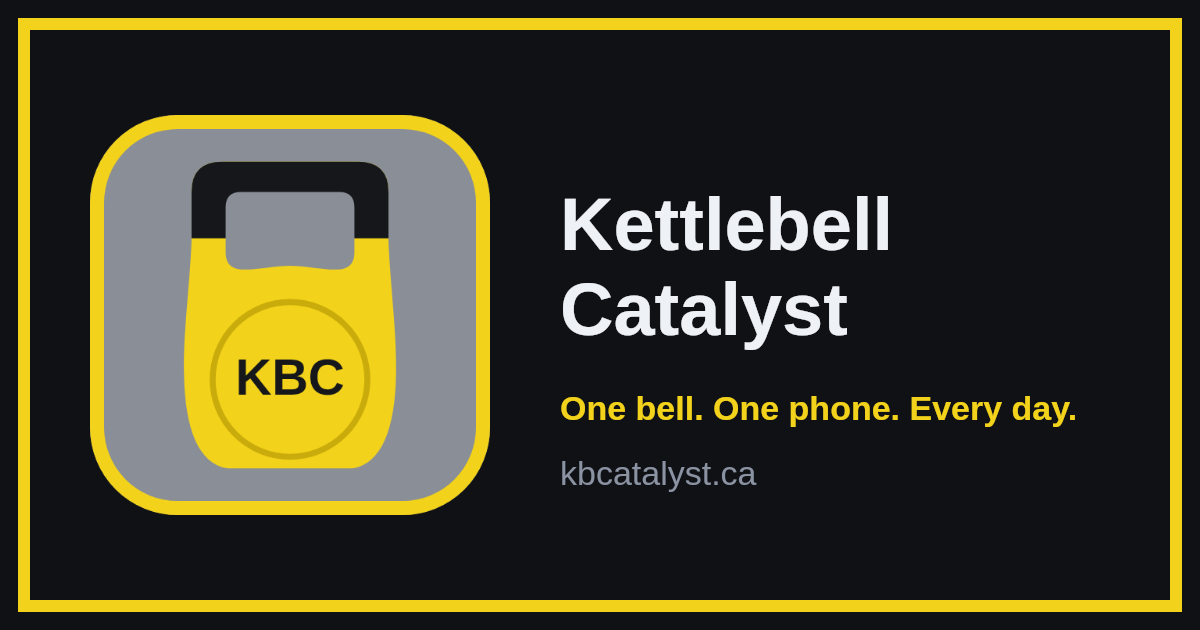
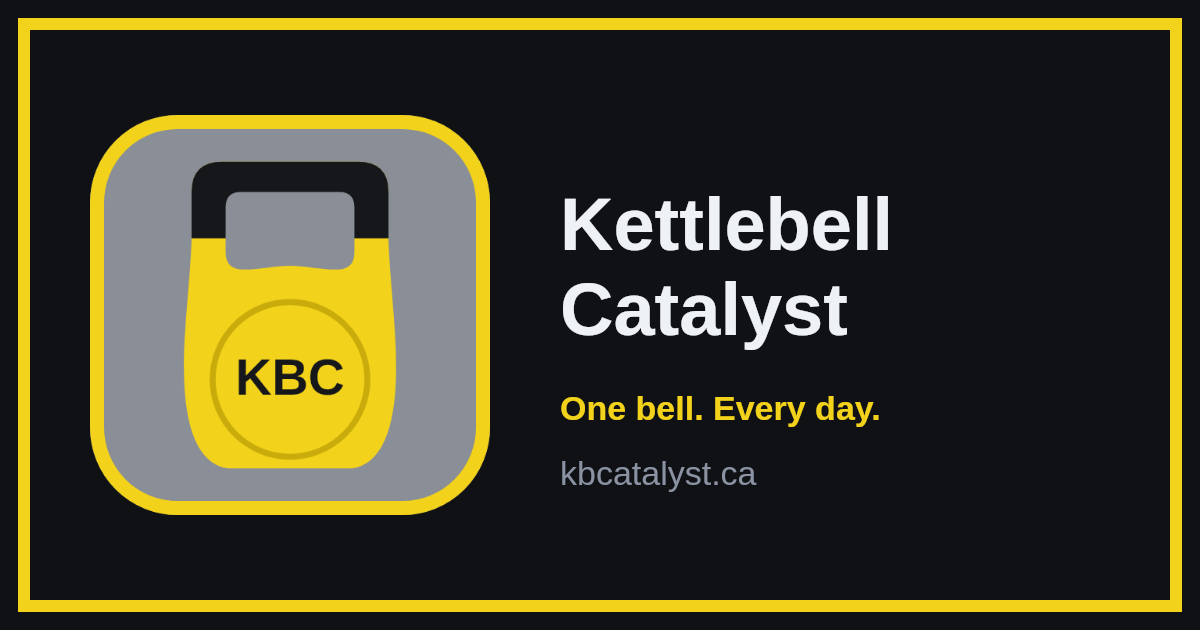
Add files via upload

Changed region(s): [[0.5858, 0.6333, 0.8942, 0.6937]]

diff --git a/index.html b/index.html
@@ -4,7 +4,7 @@
 <meta charset="utf-8">
 <meta name="viewport" content="width=device-width, initial-scale=1, viewport-fit=cover">
 <title>Kettlebell Catalyst</title>
-<meta name="description" content="One bell. One phone. Every day. A free kettlebell workout timer that plans your session and talks you through every set.">
+<meta name="description" content="One bell. Every day. A free kettlebell workout timer that plans your session and talks you through every set.">
 <meta name="theme-color" content="#0f1115">
 <link rel="manifest" href="manifest.json">
 <link rel="icon" type="image/png" sizes="32x32" href="favicon-32.png">
@@ -16,7 +16,7 @@
 <meta property="og:type" content="website">
 <meta property="og:site_name" content="Kettlebell Catalyst">
 <meta property="og:title" content="Kettlebell Catalyst">
-<meta property="og:description" content="One bell. One phone. Every day. A free kettlebell workout timer.">
+<meta property="og:description" content="One bell. Every day. A free kettlebell workout timer.">
 <meta property="og:url" content="https://kbcatalyst.ca/">
 <meta property="og:image" content="https://kbcatalyst.ca/og-image.png">
 <meta property="og:image:width" content="1200">
@@ -34,7 +34,7 @@
   .wrap{max-width:640px;margin:0 auto}
   header{display:flex;justify-content:space-between;align-items:center;gap:8px;margin-bottom:10px}
   h1{font-size:20px;margin:0;letter-spacing:.3px}
-  .sub{color:var(--muted);font-size:13px;margin-top:2px;font-variant-numeric:tabular-nums}
+  .sub{color:var(--accent);font-size:17px;font-weight:700;margin-top:3px;font-variant-numeric:tabular-nums;white-space:nowrap}
   .icons{display:flex;gap:6px;flex:none}
   .icons button{width:42px;height:42px;padding:0;display:grid;place-items:center;border-radius:12px;color:var(--text)}
   .icons svg{width:22px;height:22px;fill:none;stroke:currentColor;stroke-width:1.8;stroke-linecap:round;stroke-linejoin:round}
@@ -52,7 +52,18 @@
   .btnrow{display:flex;gap:8px;flex-wrap:wrap;margin:8px 0}
   .ok{color:var(--accent2);font-size:13px}
   .meta{color:var(--muted);font-size:13px;font-variant-numeric:tabular-nums}
-  .card{background:var(--panel);border:1px solid var(--line);border-radius:16px;padding:18px}
+  .card{background:var(--panel);border:1px solid var(--line);border-radius:16px;padding:14px 16px}
+  .quote{background:#000;border-radius:14px;padding:14px 16px;min-height:96px;margin:0 0 12px;display:flex;flex-direction:column;justify-content:center}
+  .quote .ql{font-size:11px;letter-spacing:1.2px;text-transform:uppercase;color:var(--muted);margin-bottom:6px}
+  .quote .qt{font-size:17px;line-height:1.4;color:var(--text)}
+  .quote.sponsor .ql{color:var(--accent)}
+  .quote.house{cursor:pointer}
+  .houserow{display:flex;align-items:center;gap:14px}
+  .houseicon{width:56px;height:56px;flex:none}
+  .houserow b{display:block;font-size:18px;color:var(--text)}
+  .houserow span{display:block;font-size:15px;color:var(--accent);font-weight:700;margin-top:2px}
+  .quote a{color:var(--accent)}
+  .quote .qby{display:block;font-size:14px;color:var(--muted);margin-top:6px}
   .now{text-align:center}
   .slot{color:var(--text);font-size:26px;font-weight:800;letter-spacing:.5px;font-variant-numeric:tabular-nums}
   .slot .of{color:var(--muted);font-weight:600;font-size:18px}
@@ -60,15 +71,16 @@
   .slot .rest{display:block;color:var(--muted);font-size:13px;font-weight:500;margin-top:2px}
   .tag{display:inline-block;font-size:11px;padding:2px 8px;border-radius:99px;border:1px solid var(--line);color:var(--muted);margin-left:6px;vertical-align:middle;text-transform:none;letter-spacing:0}
   .ex{font-size:clamp(26px,7vw,40px);font-weight:700;line-height:1.15;margin:10px 0 6px}
-  .cue{color:var(--muted);font-size:15px;min-height:20px}
-  .clock{font-size:clamp(64px,22vw,120px);font-weight:800;font-variant-numeric:tabular-nums;line-height:1;margin:14px 0 6px;color:var(--accent)}
+  .cue{color:var(--muted);font-size:15px;min-height:20px;display:-webkit-box;-webkit-line-clamp:2;-webkit-box-orient:vertical;overflow:hidden}
+  .clock{font-size:clamp(64px,22vw,120px);font-weight:800;font-variant-numeric:tabular-nums;line-height:1;margin:8px 0 4px;color:var(--accent)}
   .clock.low{color:var(--warn)}
   .bar{height:6px;background:var(--line);border-radius:99px;overflow:hidden;margin-top:10px}
   .bar>i{display:block;height:100%;width:0;background:var(--accent2);transition:width .2s linear}
-  .next{margin-top:14px;font-size:15px;color:var(--muted)}
+  .next{margin-top:10px;font-size:15px;color:var(--muted)}
   .next b{color:var(--text)}
   .next .dose{color:var(--accent2);font-weight:600}
-  .controls{display:grid;grid-template-columns:1fr 2fr 1fr;gap:10px;margin:14px 0}
+  .controls{display:grid;grid-template-columns:1fr 2fr 1fr;gap:10px;margin:8px 0 10px}
+  .controls button{padding:10px 8px}
   button{font:inherit;color:var(--text);background:var(--panel);border:1px solid var(--line);border-radius:12px;padding:14px 10px;font-size:16px;cursor:pointer}
   button:active{transform:scale(.98)}
   button.primary{background:var(--accent);border-color:var(--accent);color:#1a1205;font-weight:700}
@@ -111,7 +123,8 @@
   details[open] summary::before{content:"▾ ";}
   .grp{font-size:12px;color:var(--muted);text-transform:uppercase;letter-spacing:1px;margin:14px 0 6px}
   .lib li.off .nm{color:var(--muted);text-decoration:line-through}
-  .lib input[type=checkbox]{width:20px;height:20px;flex:none;accent-color:var(--accent2)}
+  .lib input[type=checkbox]{width:26px;height:26px;flex:none;accent-color:var(--accent2);margin:0 2px}
+  .lib li .nm{cursor:pointer}
   .step{display:flex;align-items:center;gap:4px;flex:none}
   .step button{padding:4px 10px;font-size:15px;border-radius:8px}
   .step span{min-width:26px;text-align:center;font-variant-numeric:tabular-nums;color:var(--muted);font-size:13px}
@@ -127,7 +140,7 @@
   <header>
     <div>
       <h1 id="title">Kettlebell Catalyst</h1>
-      <div class="sub"><span id="sub">45 min · Full day</span> · <span id="meta">0:00 / 45:00</span></div>
+      <div class="sub"><span id="meta">0:00 / 45:00</span> · <span id="sub">Full day</span></div>
     </div>
     <div class="icons">
       <button id="icoHealth" aria-label="Health disclaimer" title="Health disclaimer"><svg viewBox="0 0 24 24"><path d="M9 3.5h6v5.5h5.5v6H15v5.5H9V15H3.5V9H9z"/></svg></button>
@@ -158,6 +171,7 @@
     <button id="startBtn" class="primary">Start</button>
     <button id="skipBtn" aria-label="Next">Skip ▶</button>
   </div>
+  <div class="quote" id="quoteBox" aria-live="polite"><div class="ql" id="qLabel">Ready when you are</div><div class="qt" id="qText">Pick up your bell. Press Start when you're ready.</div></div>
 
   <div class="row">
     <label>Length
@@ -241,9 +255,9 @@
   // mode: warmup | both | full | easy ; freq = times per session ; sided = L/R pair
   const D=(id,name,cue,tag,mode,sided,freq)=>({id,name,cue,tag,mode,sided:!!sided,freq:freq||1});
   const DEFAULTS=[
-    D("halo","Halos","Slow circles around the head, both directions · 5 each way","warm-up","warmup"),
-    D("atw","Around-the-World Passes","Pass the bell around your waist, switching direction halfway · 10 passes","warm-up","warmup"),
-    D("pry","Prying Goblet Squat","Sit deep, push knees out with elbows · 5 slow reps","warm-up","warmup"),
+    D("halo","Halos","Slow circles, both ways · 5 each way","warm-up","warmup"),
+    D("atw","Around-the-World Passes","Switch halfway · 10 passes","warm-up","warmup"),
+    D("pry","Prying Goblet Squat","Sit deep, elbows push knees out · 5 slow reps","warm-up","warmup"),
     D("kbdl","Kettlebell Deadlift","Hinge, flat back, stand tall · 8 reps","warm-up","warmup"),
     D("bridge","Glute Bridge","Bell on hips, squeeze at the top · 10 reps","warm-up","warmup"),
 
@@ -280,11 +294,11 @@
     D("thruster","Goblet Thruster","Squat and press in one move · 6 reps","squat","full"),
 
     D("smarch","Suitcase March","Bell at your side, slow high knees · 30 s","carry","easy",1),
-    D("armbar","Arm Bar","On your back, bell pressed up, roll gently to the side · 30 s","mobility","easy",1),
+    D("armbar","Arm Bar","Bell pressed up, roll to the side · 30 s","mobility","easy",1),
     D("splank","Side Plank","On elbow, hips high · 20–30 s","core","easy",1),
     D("birddog","Bird Dog","Opposite arm and leg, slow · 6 reps","core","easy"),
     D("hipflex","Half-Kneeling Hip Flexor Stretch","Tuck the pelvis, breathe · 30 s","mobility","easy",1),
-    D("cossack","Cossack Squat (bodyweight)","Shift side to side, only as deep as is comfortable · 4 reps","mobility","easy"),
+    D("cossack","Cossack Squat (bodyweight)","Side to side, comfortable depth · 4 reps","mobility","easy"),
     D("bwsplit","Bodyweight Split Squat","Slow and controlled · 6 reps","lunge","easy",1),
     D("gcarry","Goblet Carry","Bell at chest, walk tall · 30 s","carry","easy"),
     D("incpush","Incline Push-Ups","Hands on a bench or counter · 8–10 reps","press","easy"),
@@ -414,8 +428,118 @@
   function renderHead(){
     $("easyBtn").textContent=settings.easy?"Easy day: On":"Easy day: Off";
     $("easyBtn").classList.toggle("on",settings.easy);
-    $("sub").textContent=settings.len+" min · "+(settings.easy?"Easy day":"Full day");
+    $("sub").textContent=settings.easy?"Easy day":"Full day";
   }
+  // ---------- Something to read under the controls: one card per set ----------
+  // Original lines (no attributed quotes). Sponsor slot stays off until there's a deal.
+  // Sponsor messages share the panel with the motivational lines, alternating set by set.
+  // Empty = no sponsor: the panel alternates motivational lines with form tips instead.
+  // For now the slot promotes Kettlebell Catalyst itself (like the sticker). Swap in a real sponsor later, e.g.
+  // {label:"Sponsor", text:"Today's bell: the Bells of Steel 6–12 kg adjustable", url:"https://bellsofsteel.com/collections/adjustable-kettlebells"}
+  const SPONSORS=[
+    {label:"Kettlebell Catalyst", text:"One bell. Every day.", sub:"kbcatalyst.ca", house:true},
+    {label:"Kettlebell Catalyst", text:"Know someone with a kettlebell?", sub:"Send them kbcatalyst.ca", house:true},
+    {label:"Kettlebell Catalyst", text:"Keep the chain going.", sub:"Share today's workout when you finish", house:true}
+  ];
+  let LINES=[
+      "Showing up is the workout. Everything else is a bonus.",
+      "One more set. Then decide.",
+      "Strong is a skill.",
+      "You don't need motivation. You need the next rep.",
+      "Small, boring, daily. That's how it works.",
+      "The bell doesn't care how you feel. That's the point.",
+      "Breathe out on the effort.",
+      "Slow progress is still progress.",
+      "Easy days count. Missing days don't.",
+      "Keep the chain alive.",
+      "Today's set is tomorrow's warm-up.",
+      "Make it look easy. Then make it easy.",
+      "You're building the kind of person you want to be.",
+      "Steady beats heroic.",
+      "Five minutes in, you're already glad you started.",
+      "Light bell, perfect reps.",
+      "Your future self is watching this set.",
+      "Consistency is a superpower nobody brags about.",
+      "Earn the next bell size...slowly.",
+      "This is the part that changes you.",
+      "Quiet effort, loud results.",
+      "Be the person who finishes.",
+      "Strength is built in the reps you almost skipped.",
+      "Halfway is the hardest place to be. Keep going.",
+      "Discipline is just remembering what you want.",
+      "Good enough, every day, beats perfect, sometimes.",
+      "Hips, breath, focus. Repeat.",
+      "The best workout is the one you actually do.",
+      "A measured workout today. A stronger you tomorrow.",
+      "I am a slow walker, but I never walk back. — Attributed to Abraham Lincoln"
+  ];
+  let TIPS=[
+    "Swings: the hips snap, the bell floats. Your arms are just ropes.",
+    "Swings: hike the bell high between your thighs, like passing a football.",
+    "Swings: at the top, stand tall. Glutes tight, knees locked, ribs down.",
+    "Get-ups: eyes on the bell, arm locked out, the whole way.",
+    "Get-ups: slow is smooth, smooth is strong.",
+    "Presses: squeeze the handle, brace your abs, then press.",
+    "Presses: wrist straight. The bell rests on your forearm, not your hand.",
+    "Rack: elbow tucked, bell in the crook of your arm, wrist neutral.",
+    "Squats: sit between your heels, chest up, knees out.",
+    "Deadlifts: push the floor away. Flat back, bell close.",
+    "Rows: pull to the hip, not the chest.",
+    "Carries: walk tall, short steps, don't lean.",
+    "Cleans: the bell travels close to the body. No banging the forearm.",
+    "Snatches: punch through at the top so the bell doesn't flip over.",
+    "Windmills: hips back, eyes on the bell, go only as far as is comfortable.",
+    "Lunges: step long enough that the front knee stays over the ankle.",
+    "Planks: squeeze glutes and quads. A tight body is a safe body.",
+    "Breathe out sharply on each swing, like a short hiss.",
+    "Grip fading? Shake it out and reset. Form first.",
+    "If a rep feels sloppy, park it. Rest out the interval.",
+    "Feet flat, toes gripping the floor. Root down.",
+    "Neck long, gaze a few feet ahead on hinges.",
+    "Heavier soon? Only when every rep of every set looks clean.",
+    "Pick the bell up and set it down with a flat back, every time.",
+    "Sip water between sets if you need to. No rush.",
+    "Chalk or a towel helps if your hands sweat.",
+    "Wear flat shoes, or go barefoot on a safe floor.",
+    "Leave room around you. Swings travel further than you think.",
+    "Sore today? Make it an easy day and keep the chain.",
+    "Finish every set with a rep you're proud of."
+  ];
+  // Editable lists: quotes.txt and tips.txt next to index.html (one line each; # starts a comment)
+  async function loadLists(){
+    const get=async f=>{ try{ const r=await fetch(f,{cache:"no-cache"}); if(!r.ok) return null;
+      const lines=(await r.text()).split(/\r?\n/).map(x=>x.trim()).filter(x=>x && !x.startsWith("#")); return lines.length>=3 ? lines : null; }catch(e){ return null; } };
+    const [q,t]=await Promise.all([get("quotes.txt"),get("tips.txt")]);
+    if(q) LINES=q; if(t) TIPS=t; if(q||t) renderQuote();
+  }
+  function splitCredit(line){ const m=String(line).match(/^(.*\S)\s+(?:—|–|-{1,2})\s+(\S.*)$/); return m ? {text:m[1], by:m[2]} : {text:line, by:""}; }
+  function quoteFor(i){
+    const seed=curSeed()+i*7;
+    if(i%2===0){ const c=splitCredit(LINES[seed%LINES.length]); return {label:"Keep going", text:c.text, by:c.by}; }
+    if(SPONSORS.length){ const sp=SPONSORS[Math.floor(i/2)%SPONSORS.length]; return Object.assign({label:"Sponsor", sponsor:true}, sp); }
+    return {label:"Form tip", text:TIPS[seed%TIPS.length]};
+  }
+  function showQuote(q){
+    const box=$("quoteBox"); box.classList.toggle("sponsor",!!q.sponsor); box.classList.toggle("house",!!q.house);
+    box.onclick = q.house ? openShare : null;
+    $("qLabel").textContent=q.label;
+    const t=$("qText"); t.textContent="";
+    if(q.house){   // like the sticker: app icon on the left, two lines of text beside it
+      const row=document.createElement("div"); row.className="houserow";
+      const c=document.createElement("canvas"); c.width=112; c.height=112; c.className="houseicon";
+      try{ drawAppIcon(c.getContext("2d"),0,0,112); }catch(e){}
+      const tx=document.createElement("div"); const b=document.createElement("b"); b.textContent=q.text; const sm=document.createElement("span"); sm.textContent=q.sub;
+      tx.append(b,sm); row.append(c,tx); t.appendChild(row); return;
+    }
+    if(q.by){ const qq=document.createElement("span"); qq.textContent="“"+q.text+"”"; const by=document.createElement("span"); by.className="qby"; by.textContent="— "+q.by; t.append(qq,by); return; }
+    if(q.url){ const a=document.createElement("a"); a.href=q.url; a.target="_blank"; a.rel="noopener"; a.textContent=q.text+" →"; t.appendChild(a); } else t.textContent=q.text;
+  }
+  function renderQuote(){
+    if(prerolling) return showQuote({label:"Get ready", text:"Bell in place, feet set, phone where you can see it."});
+    if(idx<0) return showQuote({label:"Ready when you are", text:"Pick up your bell. Press Start when you're ready."});
+    showQuote(quoteFor(idx));
+  }
+
   function renderNow(){
     renderHead();
     if(idx<0){
@@ -426,12 +550,13 @@
       if(plan[0]) nextHTML("First up:",plan[0]); else $("nextLbl").textContent="";
       $("bar").style.width="0%";
       $("meta").textContent=`0:00 / ${fmt(total())}`;
-      return;
+      renderQuote(); return;
     }
     const e=plan[idx], nx=plan[idx+1];
     $("slotLbl").className="slot"; $("slotLbl").innerHTML=`${idx+1}<span class="of"> / ${plan.length}</span><span class="tag"></span>`;
     $("slotLbl").querySelector(".tag").textContent=e[2];
     $("exName").textContent=e[0]; $("exCue").textContent=e[1];
+    renderQuote();
     if(nx) nextHTML("Next:",nx);
     else $("nextLbl").textContent="Last one: finish strong";
   }
@@ -477,7 +602,7 @@
     endAt=performance.now()+15000;
     $("slotLbl").className="slot ready"; $("slotLbl").innerHTML=`Get ready<span class="rest"></span>`; $("slotLbl").querySelector(".rest").textContent=intro;
     $("exName").textContent=first[0]; $("exCue").textContent=first[1]; nextHTML("First up:",first);
-    $("startBtn").textContent="Cancel";
+    $("startBtn").textContent="Cancel"; renderQuote();
     if(settings.voice && window.speechSynthesis){
       try{
         const ss=window.speechSynthesis; if(ss.speaking||ss.pending) ss.cancel(); ss.resume();
@@ -504,13 +629,21 @@
     markDone();
     $("finishNote").textContent=`${plan.length} intervals · ${fmt(total())}. Day ${streak()} of your chain. Cool down with a walk and a few deep breaths.`;
     $("finishChain").textContent=chainRow(14);
+    showQuote({label:"Done", text:"That's one more link in the chain. See you tomorrow."});
     $("startBtn").textContent="Start"; idx=plan.length; renderList(); idx=-1;
     $("meta").textContent=`${fmt(total())} / ${fmt(total())}`;
     if(dirty){ rebuild(); renderList(); }
   }
   const inProgress=()=> idx>=0;
-  function changed(){ // settings/library changed
-    if(inProgress()){ dirty=true; $("pending").hidden=false; renderLib(); }
+  function changed(kind){ // settings/library changed
+    if(inProgress() || prerolling){
+      if(kind==="lib"){
+        // Library edits apply straight away to the sets you haven't done yet; finished sets stay as they were
+        const fresh=buildPlan().plan, keep=Math.max(0,idx+1);
+        if(fresh.length===plan.length){ plan=plan.slice(0,keep).concat(fresh.slice(keep)); renderNow(); renderList(); renderLib(); return; }
+      }
+      dirty=true; $("pending").hidden=false; renderLib();
+    }
     else reset();
   }
 
@@ -527,7 +660,9 @@
         const li=document.createElement("li"); if(!x.on) li.classList.add("off");
         const cb=document.createElement("input"); cb.type="checkbox"; cb.checked=x.on;
         cb.onchange=()=>{ setOver(x.id,{on:cb.checked}); };
+        cb.setAttribute("aria-label",(x.on?"Switch off ":"Switch on ")+x.name);
         const nm=document.createElement("span"); nm.className="nm"; nm.textContent=x.name;
+        nm.onclick=()=>{ cb.checked=!cb.checked; cb.onchange(); };   // tapping the name works too
         if(x.sided){ const b=document.createElement("span"); b.className="lr"; b.textContent="L/R"; nm.appendChild(b); }
         li.append(cb,nm);
         const ctl=document.createElement("div"); ctl.className="ctl"; li.appendChild(ctl);
@@ -579,7 +714,7 @@
         }
         if(x.custom){
           const d=document.createElement("button"); d.className="del"; d.textContent="✕"; d.setAttribute("aria-label","Delete");
-          d.onclick=()=>{ user.custom=user.custom.filter(c=>c.id!==x.id); delete user.over[x.id]; saveUser(); changed(); renderLib(); };
+          d.onclick=()=>{ user.custom=user.custom.filter(c=>c.id!==x.id); delete user.over[x.id]; saveUser(); changed("lib"); renderLib(); };
           li.appendChild(d);
         }
         ul.appendChild(li);
@@ -587,20 +722,20 @@
       box.appendChild(ul);
     });
   }
-  function setOver(id,patch){ user.over[id]=Object.assign({},user.over[id]||{},patch); saveUser(); changed(); renderLib(); }
+  function setOver(id,patch){ user.over[id]=Object.assign({},user.over[id]||{},patch); saveUser(); changed("lib"); renderLib(); }
 
   $("addBtn").onclick=()=>{
     const name=$("addName").value.trim(); if(!name){ $("addName").focus(); return; }
     const mode=$("addMode").value;
     user.custom.push({id:"c"+Date.now().toString(36), name, cue:$("addCue").value.trim()||"Steady pace", tag:"custom", mode, sided:$("addSided").checked, freq:1, custom:true});
     saveUser(); $("addName").value=""; $("addCue").value=""; $("addSided").checked=false;
-    changed(); renderLib();
+    changed("lib"); renderLib();
   };
   let restoreArmed=false;
   $("restoreBtn").onclick=()=>{
     if(!restoreArmed){ restoreArmed=true; $("restoreBtn").textContent="Tap again to restore (removes your changes)"; setTimeout(()=>{restoreArmed=false;$("restoreBtn").textContent="Restore default library";},4000); return; }
     restoreArmed=false; $("restoreBtn").textContent="Restore default library";
-    user={over:{},custom:[]}; saveUser(); changed(); renderLib();
+    user={over:{},custom:[]}; saveUser(); changed("lib"); renderLib();
   };
 
   // ---------- Audio / voice / wake lock ----------
@@ -785,7 +920,7 @@
       P("There is no app to install, although the site does save your preferences on your device."),
       P("Feel free to experiment and make it yours: use the exercise library to emphasize exercises you enjoy, or banish exercises you don't. Add your own exercises. Over time, modify the preferred number of reps for each exercise. Even share your workouts on social media or directly with friends by email."),
       P("All of your preferences are saved on your device."),
-      el("p",{className:"ok",textContent:"Version 1.5.2"}),
+      el("p",{className:"ok",textContent:"Version 1.7.1"}),
       H("Questions & feedback")
     );
     if(FEEDBACK){ const isLink=/^https?:/.test(FEEDBACK);
@@ -823,7 +958,7 @@
   const ratio=()=> plan.length+"/"+settings.len;
   function offList(){ return library().filter(x=>!x.on && !x.custom).map(x=>x.name.replace(/ \(.*\)$/,"")); }
 
-  const TAGLINE="One bell. One phone. Every day.";
+  const TAGLINE="One bell. Every day.";
   let cardNote="";
   function shareImage(){
     const c=document.createElement("canvas"); c.width=1080; c.height=1080; const g=c.getContext("2d");
@@ -1045,6 +1180,7 @@
 
   reset();
   checkHash();
+  if(/^https?:$/.test(location.protocol) && !/claude/i.test(location.hostname)) loadLists();
   // Offline support: only on the real site (kbcatalyst.ca or GitHub Pages), never inside a preview frame
   try{ if("serviceWorker" in navigator && /kbcatalyst\.ca$|github\.io$/i.test(location.hostname)) navigator.serviceWorker.register("sw.js").catch(()=>{}); }catch(e){}
 })();

diff --git a/sw.js b/sw.js
@@ -1,8 +1,8 @@
 // Kettlebell Catalyst offline support: keep a copy of the app on the device.
 // Pages load from the network when it's available (so updates arrive right away)
 // and fall back to the saved copy when there's no signal.
-const CACHE = "kbc-v1.5.2";
-const FILES = ["./", "index.html", "manifest.json", "icon-192.png", "icon-512.png", "icon-maskable-512.png",
+const CACHE = "kbc-v1.7.1";
+const FILES = ["./", "index.html", "manifest.json", "quotes.txt", "tips.txt", "icon-192.png", "icon-512.png", "icon-maskable-512.png",
                "apple-touch-icon.png", "favicon-32.png", "favicon-16.png"];
 
 self.addEventListener("install", e => {

diff --git a/README.md b/README.md
@@ -1,6 +1,6 @@
 # Kettlebell Catalyst
 
-**One bell. One phone. Every day.**
+**One bell. Every day.**
 
 Kettlebell Catalyst is a free kettlebell workout timer that runs in your phone's browser. No app to install, no account, no subscription.
 
